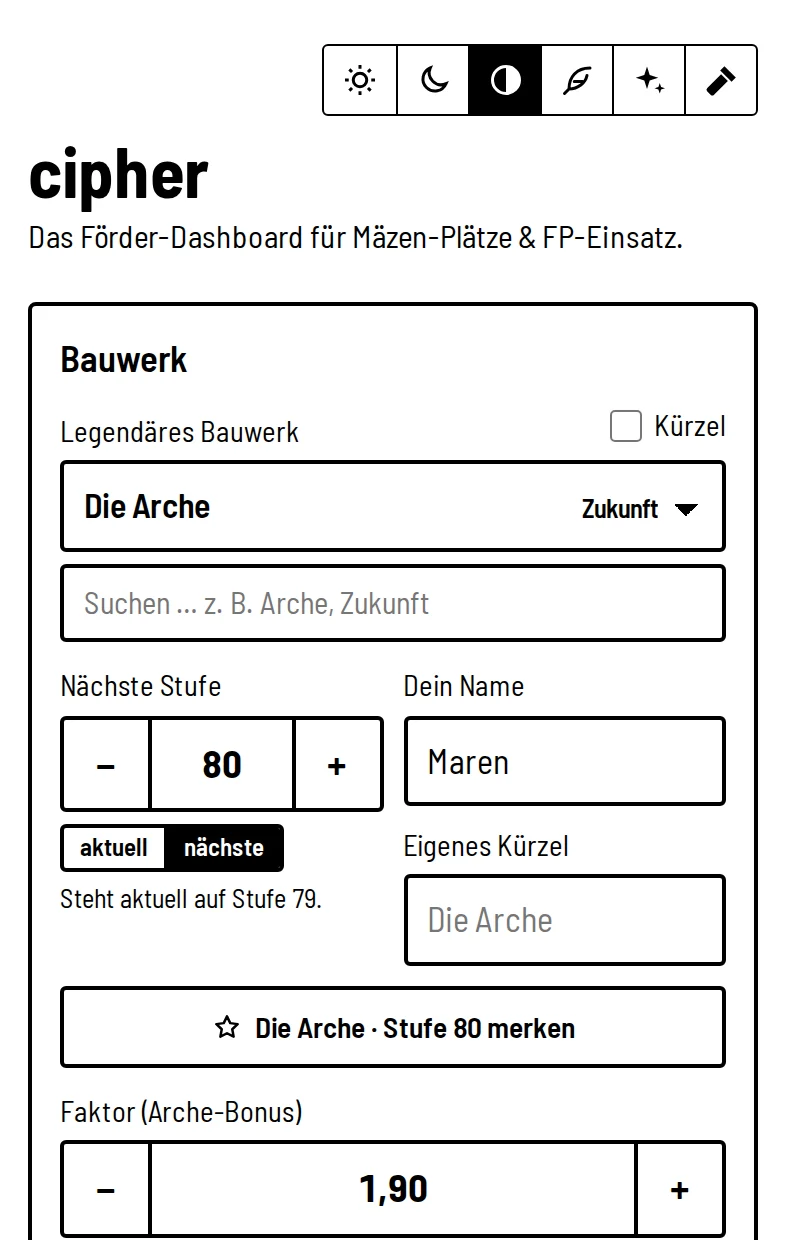
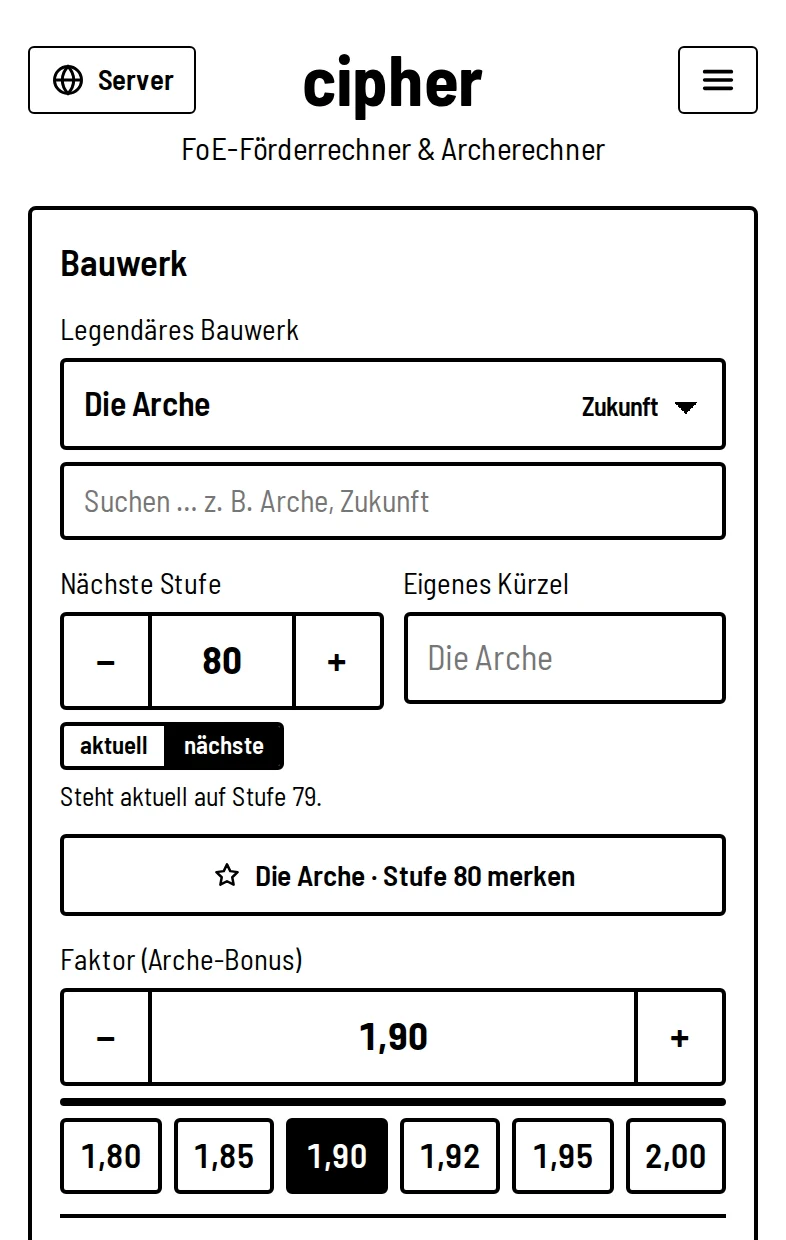
Screenshot-Skript läuft wieder, Rundgang-Bilder auf aktuellem Stand
Das Skript suchte noch den Kopierknopf von vor #54
(data-copy="chatPlain") und brach beim Förderchat ab — alle Bilder
danach blieben alt. Jetzt klickt es #chatCopy, und alle Bilder zeigen
die heutige Oberfläche: Server-Knopf, eine Chat-Zeile mit Schalter und
die neuen Wörter und Farben im Förderplan.

Claude-Session: https://claude.ai/code/session_01MZnjw5U3QALumkhy22zXBS

diff --git a/tools/screenshots.js b/tools/screenshots.js
@@ -149,7 +149,7 @@ async function main() {
       await page.locator("#building").selectOption(id, { force: true });
       await page.fill("#level", String(level));
       await page.locator("#level").blur();
-      await page.click('button[data-copy="chatPlain"]');
+      await page.click("#chatCopy");
       await page.waitForTimeout(80);
     }
     // Neu laden: die Knoepfe sagen sonst noch „Kopiert“.
